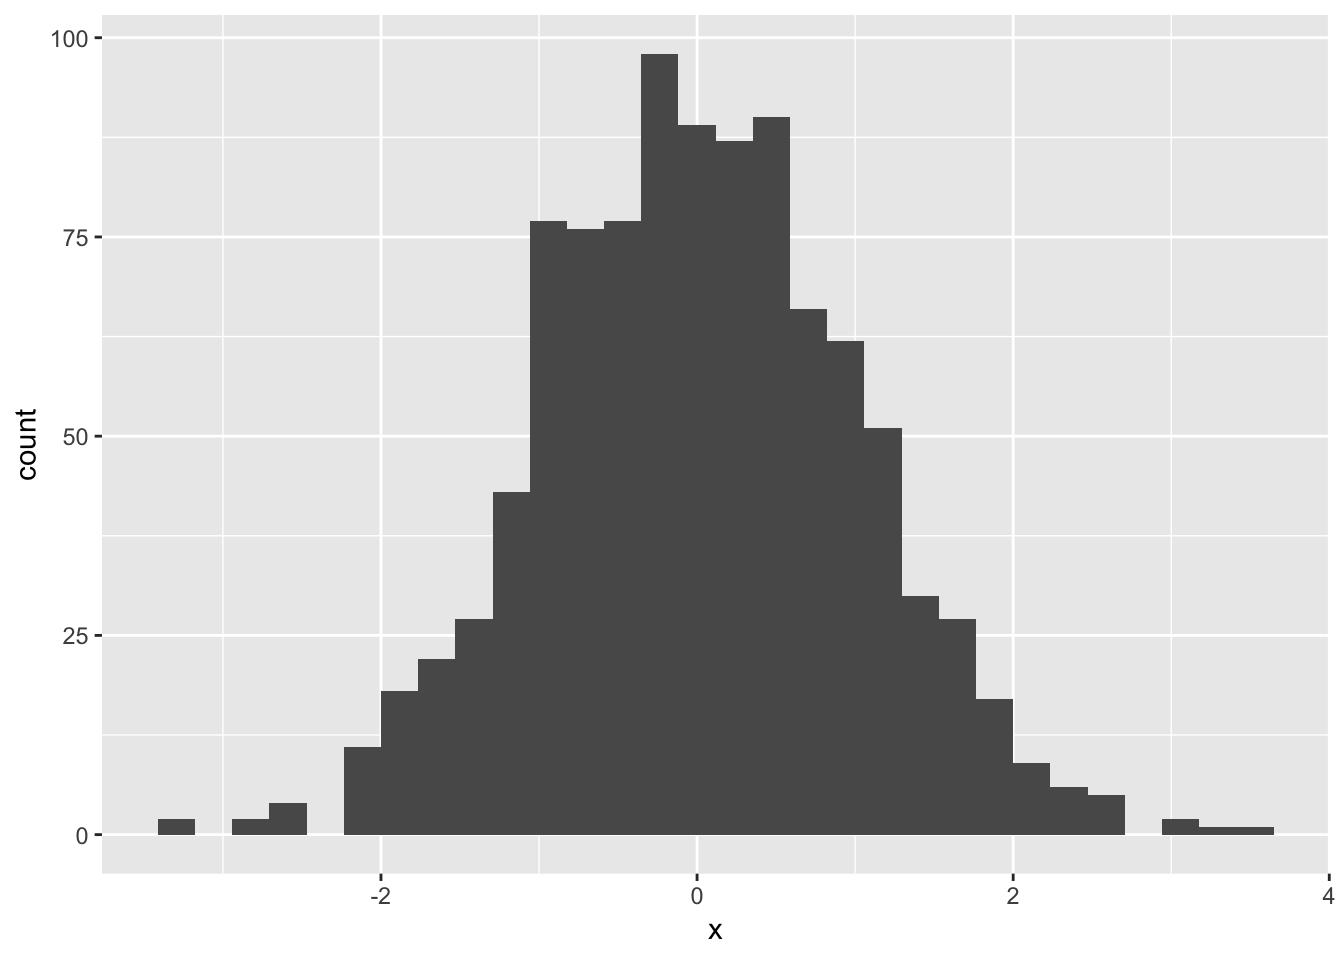
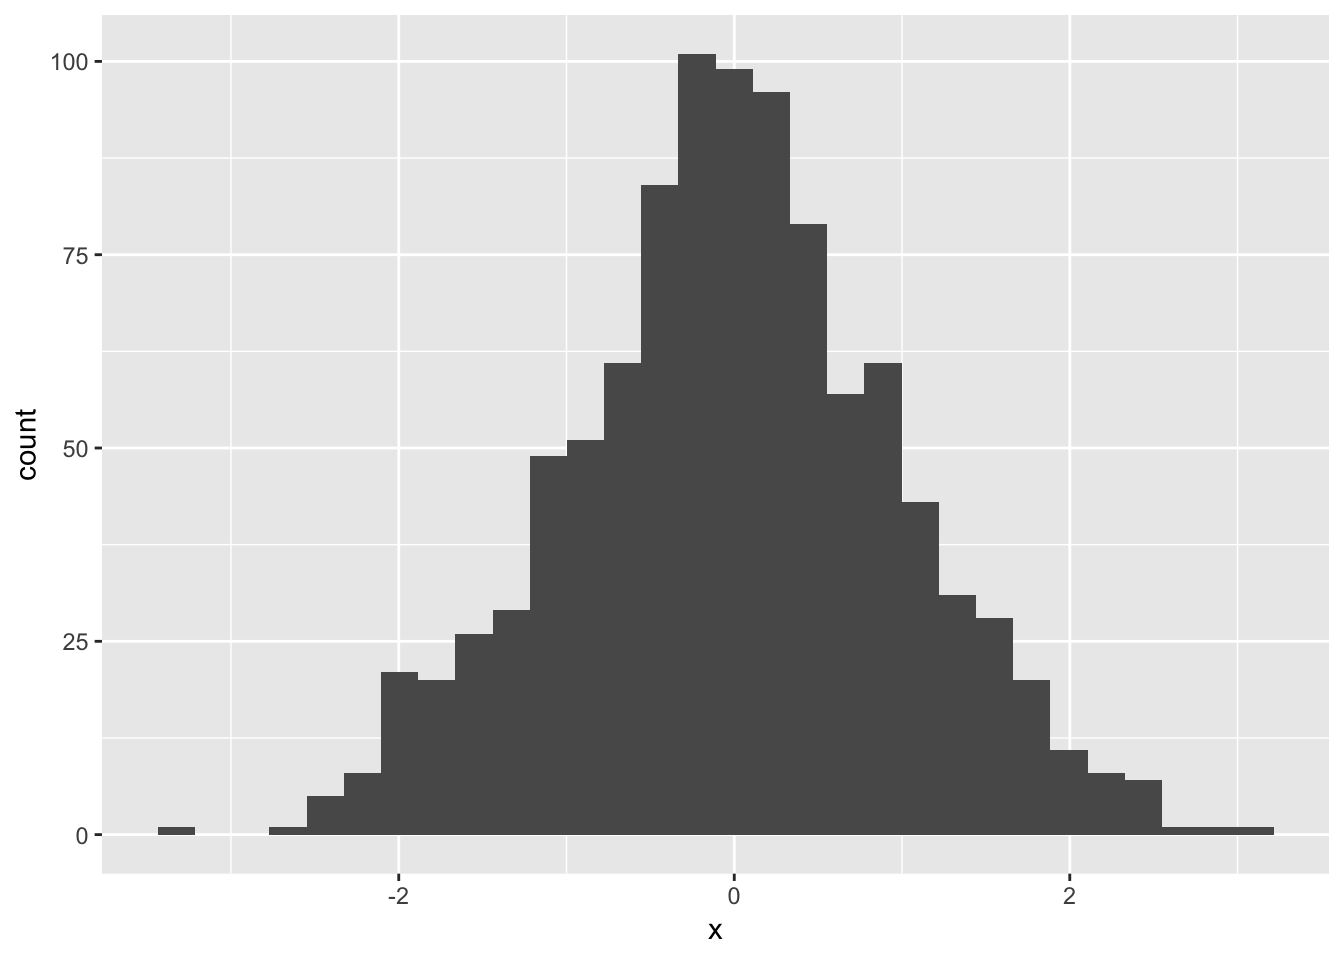
small update

diff --git a/docs/probability.html b/docs/probability.html
@@ -534,7 +534,7 @@ div.tocify {
 <div class="sourceCode" id="cb5"><pre class="sourceCode r"><code class="sourceCode r"><span id="cb5-1"><a href="#cb5-1"></a><span class="kw">qbinom</span>(<span class="dt">p =</span> <span class="fl">0.5</span>, <span class="dt">size =</span> <span class="dv">10</span>, <span class="dt">prob =</span> <span class="fl">0.1</span>) <span class="co"># Quantile function at p=0.5</span></span></code></pre></div>
 <pre><code>## [1] 1</code></pre>
 <div class="sourceCode" id="cb7"><pre class="sourceCode r"><code class="sourceCode r"><span id="cb7-1"><a href="#cb7-1"></a><span class="kw">rbinom</span>(<span class="dt">n =</span> <span class="dv">20</span>, <span class="dt">size =</span> <span class="dv">10</span>, <span class="dt">prob =</span> <span class="fl">0.1</span>)  <span class="co"># Simulate a sample of size 20</span></span></code></pre></div>
-<pre><code>##  [1] 0 1 1 1 0 0 1 1 0 1 0 1 1 0 2 2 0 1 1 1</code></pre>
+<pre><code>##  [1] 3 1 0 2 0 1 2 0 3 0 0 2 3 2 0 1 0 2 1 0</code></pre>
 <p><strong>Poisson distribution</strong>: <span class="math inline">\(\text{Poiss}(\lambda)\)</span> with <span class="math inline">\(\lambda=2\)</span></p>
 <div class="sourceCode" id="cb9"><pre class="sourceCode r"><code class="sourceCode r"><span id="cb9-1"><a href="#cb9-1"></a><span class="kw">dpois</span>(<span class="dt">x =</span> <span class="dv">1</span>, <span class="dt">lambda =</span> <span class="dv">2</span>)     <span class="co"># Probability mass function at x=1</span></span>
 <span id="cb9-2"><a href="#cb9-2"></a><span class="kw">ppois</span>(<span class="dt">q =</span> <span class="dv">1</span>, <span class="dt">lambda =</span> <span class="dv">2</span>)     <span class="co"># Distribution function at q=1</span></span>
@@ -550,31 +550,31 @@ div.tocify {
 <h2>Function <code>sample</code></h2>
 <p>Function <code>sample</code> allows to draw a sample from a finite set of values, with or without replacement:</p>
 <div class="sourceCode" id="cb11"><pre class="sourceCode r"><code class="sourceCode r"><span id="cb11-1"><a href="#cb11-1"></a><span class="kw">sample</span>(<span class="dv">1</span><span class="op">:</span><span class="dv">10</span>, <span class="dt">size =</span> <span class="dv">8</span>, <span class="dt">replace =</span> <span class="ot">TRUE</span>)</span></code></pre></div>
-<pre><code>## [1]  8 10  7  8  1 10  6  2</code></pre>
+<pre><code>## [1] 10  8  4 10  4  7  6  2</code></pre>
 <div class="sourceCode" id="cb13"><pre class="sourceCode r"><code class="sourceCode r"><span id="cb13-1"><a href="#cb13-1"></a><span class="kw">sample</span>(<span class="dv">1</span><span class="op">:</span><span class="dv">10</span>, <span class="dt">size =</span> <span class="dv">8</span>, <span class="dt">replace =</span> <span class="ot">FALSE</span>)</span></code></pre></div>
-<pre><code>## [1]  3  9 10  4  2  5  1  6</code></pre>
+<pre><code>## [1]  3  4 10  6  2  5  7  8</code></pre>
 <p>The first argument can be any vector:</p>
 <div class="sourceCode" id="cb15"><pre class="sourceCode r"><code class="sourceCode r"><span id="cb15-1"><a href="#cb15-1"></a>letters</span></code></pre></div>
 <pre><code>##  [1] &quot;a&quot; &quot;b&quot; &quot;c&quot; &quot;d&quot; &quot;e&quot; &quot;f&quot; &quot;g&quot; &quot;h&quot; &quot;i&quot; &quot;j&quot; &quot;k&quot; &quot;l&quot; &quot;m&quot; &quot;n&quot; &quot;o&quot; &quot;p&quot; &quot;q&quot;
 ## [18] &quot;r&quot; &quot;s&quot; &quot;t&quot; &quot;u&quot; &quot;v&quot; &quot;w&quot; &quot;x&quot; &quot;y&quot; &quot;z&quot;</code></pre>
 <div class="sourceCode" id="cb17"><pre class="sourceCode r"><code class="sourceCode r"><span id="cb17-1"><a href="#cb17-1"></a><span class="kw">sample</span>(letters, <span class="dt">size =</span> <span class="dv">8</span>, <span class="dt">replace =</span> <span class="ot">FALSE</span>)</span></code></pre></div>
-<pre><code>## [1] &quot;y&quot; &quot;z&quot; &quot;o&quot; &quot;i&quot; &quot;b&quot; &quot;p&quot; &quot;r&quot; &quot;a&quot;</code></pre>
+<pre><code>## [1] &quot;w&quot; &quot;z&quot; &quot;a&quot; &quot;l&quot; &quot;r&quot; &quot;x&quot; &quot;c&quot; &quot;p&quot;</code></pre>
 <p>An optional argument <code>prob</code> can be used to specify unequal probabilities to obtain the values in the sample:</p>
 <div class="sourceCode" id="cb19"><pre class="sourceCode r"><code class="sourceCode r"><span id="cb19-1"><a href="#cb19-1"></a><span class="kw">sample</span>(<span class="dv">1</span><span class="op">:</span><span class="dv">4</span>, <span class="dt">size =</span> <span class="dv">10</span>, <span class="dt">replace =</span> <span class="ot">TRUE</span>, <span class="dt">prob =</span> <span class="kw">c</span>(<span class="fl">0.7</span>,<span class="fl">0.1</span>,<span class="fl">0.1</span>,<span class="fl">0.1</span>))</span></code></pre></div>
-<pre><code>##  [1] 3 1 1 1 1 1 1 2 1 4</code></pre>
+<pre><code>##  [1] 1 1 1 1 2 1 1 1 1 1</code></pre>
 <p>Function <code>sample.int</code> is a faster version for sampling from the set <code>1:n</code> (among others, this function is very useful for bootstrapping):</p>
 <div class="sourceCode" id="cb21"><pre class="sourceCode r"><code class="sourceCode r"><span id="cb21-1"><a href="#cb21-1"></a><span class="kw">sample.int</span>(<span class="dv">10</span>, <span class="dt">size =</span> <span class="dv">10</span>, <span class="dt">replace =</span> <span class="ot">TRUE</span>)</span></code></pre></div>
-<pre><code>##  [1]  3  1  5  4  2  7 10  3  7  4</code></pre>
+<pre><code>##  [1] 6 1 7 8 7 1 3 9 2 3</code></pre>
 </div>
 <div id="random-numbers-and-seeds" class="section level2">
 <h2>Random numbers and seeds</h2>
 <p>The sampling functions <code>r***</code> and <code>sample</code> use peudorandom numbers based on the current processor time. This means that running the same code twice will give different results if sampling functions are involved:</p>
 <div class="sourceCode" id="cb23"><pre class="sourceCode r"><code class="sourceCode r"><span id="cb23-1"><a href="#cb23-1"></a><span class="kw">rnorm</span>(<span class="dv">10</span>)</span></code></pre></div>
-<pre><code>##  [1] -0.27021184  2.11412667  1.23797438  1.77336994 -0.07448944
-##  [6] -2.28187525 -0.36305253 -0.85784694 -0.44810639 -0.55866638</code></pre>
+<pre><code>##  [1] -0.3426564 -0.9358879  1.0589589  0.3454295 -1.5224247  0.4685731
+##  [7] -0.4628083 -0.8013377 -1.0294587  0.8847675</code></pre>
 <div class="sourceCode" id="cb25"><pre class="sourceCode r"><code class="sourceCode r"><span id="cb25-1"><a href="#cb25-1"></a><span class="kw">rnorm</span>(<span class="dv">10</span>)</span></code></pre></div>
-<pre><code>##  [1]  1.16862747 -0.83952203 -1.23157357  0.48442135 -0.11670562
-##  [6] -0.04389814 -0.68003021 -0.13852634 -0.62950821 -0.01912529</code></pre>
+<pre><code>##  [1] -0.02526150  0.51435717  0.55791023 -1.19088189  1.46732577
+##  [6]  0.66018697  0.97788728  0.88655585 -0.03058365  1.29400609</code></pre>
 <p>In many cases, this behaviour is desired – after all, these functions are used to describe the outcome of a random process! However, there is a reproducibility problem if running the same script twice (by different people, at different times, …) yields different results. It is therefore strongly recommended to set a <em>seed</em> for the random number generator at the beginning of a script:</p>
 <div class="sourceCode" id="cb27"><pre class="sourceCode r"><code class="sourceCode r"><span id="cb27-1"><a href="#cb27-1"></a><span class="kw">set.seed</span>(<span class="dv">12345</span>) <span class="co"># any number will do</span></span>
 <span id="cb27-2"><a href="#cb27-2"></a><span class="kw">rnorm</span>(<span class="dv">10</span>)</span></code></pre></div>

diff --git a/docs/packages.html b/docs/packages.html
@@ -516,10 +516,9 @@ div.tocify {
 <p>In fact, the base R installation is already organized in packages, namely <code>base</code>, <code>methods</code>, <code>datasets</code>, <code>utils</code>, <code>grDevices</code>, <code>graphics</code>, and <code>stats</code>.</p>
 <p>We can see this by looking at the search path:</p>
 <div class="sourceCode" id="cb1"><pre class="sourceCode r"><code class="sourceCode r"><span id="cb1-1"><a href="#cb1-1"></a><span class="kw">search</span>()</span></code></pre></div>
-<pre><code>##  [1] &quot;.GlobalEnv&quot;        &quot;package:deSolve&quot;   &quot;package:stats&quot;    
-##  [4] &quot;package:graphics&quot;  &quot;package:grDevices&quot; &quot;package:utils&quot;    
-##  [7] &quot;package:datasets&quot;  &quot;package:methods&quot;   &quot;Autoloads&quot;        
-## [10] &quot;package:base&quot;</code></pre>
+<pre><code>## [1] &quot;.GlobalEnv&quot;        &quot;package:stats&quot;     &quot;package:graphics&quot; 
+## [4] &quot;package:grDevices&quot; &quot;package:utils&quot;     &quot;package:datasets&quot; 
+## [7] &quot;package:methods&quot;   &quot;Autoloads&quot;         &quot;package:base&quot;</code></pre>
 <p>In addition to the above mentioned packages, there are a few additional elements on the search path which are not important for us now.</p>
 </div>
 <div id="install-and-load-a-package" class="section level2">
@@ -540,10 +539,10 @@ div.tocify {
 <div class="sourceCode" id="cb6"><pre class="sourceCode r"><code class="sourceCode r"><span id="cb6-1"><a href="#cb6-1"></a><span class="kw">ggplot</span>()</span></code></pre></div>
 <p>We can also see that the <code>ggplot2</code> packages was added to the search path:</p>
 <div class="sourceCode" id="cb7"><pre class="sourceCode r"><code class="sourceCode r"><span id="cb7-1"><a href="#cb7-1"></a><span class="kw">search</span>()</span></code></pre></div>
-<pre><code>##  [1] &quot;.GlobalEnv&quot;        &quot;package:ggplot2&quot;   &quot;package:deSolve&quot;  
-##  [4] &quot;package:stats&quot;     &quot;package:graphics&quot;  &quot;package:grDevices&quot;
-##  [7] &quot;package:utils&quot;     &quot;package:datasets&quot;  &quot;package:methods&quot;  
-## [10] &quot;Autoloads&quot;         &quot;package:base&quot;</code></pre>
+<pre><code>##  [1] &quot;.GlobalEnv&quot;        &quot;package:ggplot2&quot;   &quot;package:stats&quot;    
+##  [4] &quot;package:graphics&quot;  &quot;package:grDevices&quot; &quot;package:utils&quot;    
+##  [7] &quot;package:datasets&quot;  &quot;package:methods&quot;   &quot;Autoloads&quot;        
+## [10] &quot;package:base&quot;</code></pre>
 <p>However, conflicts can occur if two loaded packages define a function with the same name. In this case, a warning is displayed and only the function defined in the package loaded most recently can be called without the scoping operator.</p>
 </div>
 <div id="important-packages" class="section level2">

diff --git a/docs/writefunction.html b/docs/writefunction.html
@@ -545,10 +545,10 @@ div.tocify {
 <span id="cb8-3"><a href="#cb8-3"></a>    <span class="kw">paste</span>(<span class="st">&quot;Current time:&quot;</span>, str)</span>
 <span id="cb8-4"><a href="#cb8-4"></a>}</span>
 <span id="cb8-5"><a href="#cb8-5"></a><span class="kw">report_time</span>()</span></code></pre></div>
-<pre><code>## [1] &quot;Current time: Mon Aug 17 15:43:50 2020&quot;</code></pre>
+<pre><code>## [1] &quot;Current time: Mon Aug 17 17:12:54 2020&quot;</code></pre>
 <div class="sourceCode" id="cb10"><pre class="sourceCode r"><code class="sourceCode r"><span id="cb10-1"><a href="#cb10-1"></a><span class="kw">Sys.sleep</span>(<span class="dv">1</span>)    <span class="co"># wait for 1 sec</span></span>
 <span id="cb10-2"><a href="#cb10-2"></a><span class="kw">report_time</span>()</span></code></pre></div>
-<pre><code>## [1] &quot;Current time: Mon Aug 17 15:43:51 2020&quot;</code></pre>
+<pre><code>## [1] &quot;Current time: Mon Aug 17 17:12:55 2020&quot;</code></pre>
 <ol start="4" style="list-style-type: decimal">
 <li>A function calling another function on a fixed numeric vector</li>
 </ol>
@@ -600,7 +600,7 @@ div.tocify {
 <span id="cb20-10"><a href="#cb20-10"></a>}</span>
 <span id="cb20-11"><a href="#cb20-11"></a>tend   &lt;-<span class="st"> </span><span class="kw">Sys.time</span>()</span>
 <span id="cb20-12"><a href="#cb20-12"></a>tend <span class="op">-</span><span class="st"> </span>tstart         <span class="co"># check the runtime</span></span></code></pre></div>
-<pre><code>## Time difference of 1.032118 secs</code></pre>
+<pre><code>## Time difference of 1.047879 secs</code></pre>
 <p>In these cases, it is preferrable to perform the task once outside the function:</p>
 <div class="sourceCode" id="cb22"><pre class="sourceCode r"><code class="sourceCode r"><span id="cb22-1"><a href="#cb22-1"></a>tstart &lt;-<span class="st"> </span><span class="kw">Sys.time</span>()</span>
 <span id="cb22-2"><a href="#cb22-2"></a>data &lt;-<span class="st"> </span>{<span class="kw">Sys.sleep</span>(<span class="fl">0.1</span>); <span class="dv">4</span>}</span>
@@ -612,7 +612,7 @@ div.tocify {
 <span id="cb22-8"><a href="#cb22-8"></a>}    </span>
 <span id="cb22-9"><a href="#cb22-9"></a>tend   &lt;-<span class="st"> </span><span class="kw">Sys.time</span>()</span>
 <span id="cb22-10"><a href="#cb22-10"></a>tend <span class="op">-</span><span class="st"> </span>tstart        </span></code></pre></div>
-<pre><code>## Time difference of 0.1083422 secs</code></pre>
+<pre><code>## Time difference of 0.1085339 secs</code></pre>
 </div>
 
 

diff --git a/docs/index.html b/docs/index.html
@@ -336,15 +336,11 @@ $(document).ready(function () {
 </div>
 
 
-<p>This website is part of the online training material for the PharMetrX A5 module 2020.</p>
-<ul>
-<li>link to PharMetrX website?</li>
-<li>licence info?</li>
-</ul>
+<p>This website is part of the online training material for the PharMetrX A5 module 2020, part of the PharMetrX graduate research training program (see <a href="https://www.pharmetrx.de/">here</a> for general information about PharMetrX and <a href="https://www.pharmetrx.de/training/curriculum/statistics-data-analysis.html">here</a> for an overview of the content covered in the module). The material has been created by Niklas Hartung, University of Potsdam (2020), and is distributed under the terms of the Creative Commons License (CC BY-NC-SA 3.0): Attribution-NonCommercial-ShareAlike 3.0 Unported.</p>
 <p>This self-study hands-on material, to be prepared <em>before</em> the one-week module (31 August – 4 September 2020), consists of two parts:</p>
 <ul>
-<li><strong>Tutorials</strong> covering the R programming skills required during the hands-on sessions. Depending on your current experience with R, you might be able to skip parts of this material. Below, an overview on the tutorial content is given.</li>
-<li><strong>Tasks</strong> (hands-on) based on Wilhelm’s screencasts. This material is mandatory. <em>Zoom meeting about the tasks before the module?</em></li>
+<li><strong>Tutorials</strong> covering the R programming skills required during the hands-on sessions. Depending on your current experience with R, you might be able to skip parts of this material. Below, an overview on the tutorial content is given. The tutorials themselves can be accessed by clicking on “R Tutorials” in the header.</li>
+<li><strong>Tasks</strong> (hands-on) based on Wilhelm’s screencasts. Please complete this material before the start of the one-week module. Again, the tutorials can be accessed through the navigation bar at the top. You can check your results against the provided reference solutions.</li>
 </ul>
 <p>The following topics are covered in the R tutorials:</p>
 <table>

diff --git a/docs/controlflow.html b/docs/controlflow.html
@@ -530,7 +530,7 @@ div.tocify {
 <p>Let’s give an example:</p>
 <div class="sourceCode" id="cb3"><pre class="sourceCode r"><code class="sourceCode r"><span id="cb3-1"><a href="#cb3-1"></a>x &lt;-<span class="st"> </span><span class="kw">rnorm</span>(<span class="dv">1</span>)         <span class="co"># normally distributed pseudorandom number</span></span>
 <span id="cb3-2"><a href="#cb3-2"></a>x</span></code></pre></div>
-<pre><code>## [1] 1.049556</code></pre>
+<pre><code>## [1] 0.9503557</code></pre>
 <div class="sourceCode" id="cb5"><pre class="sourceCode r"><code class="sourceCode r"><span id="cb5-1"><a href="#cb5-1"></a><span class="cf">if</span> (x <span class="op">&gt;</span><span class="st"> </span><span class="dv">0</span>) {</span>
 <span id="cb5-2"><a href="#cb5-2"></a>    <span class="kw">print</span>(<span class="st">&quot;x is positive&quot;</span>)</span>
 <span id="cb5-3"><a href="#cb5-3"></a>} <span class="cf">else</span> {    </span>
@@ -554,7 +554,7 @@ div.tocify {
 <span id="cb9-5"><a href="#cb9-5"></a>} <span class="cf">else</span> {</span>
 <span id="cb9-6"><a href="#cb9-6"></a>    <span class="kw">print</span>(<span class="st">&quot;x is less than -1&quot;</span>)</span>
 <span id="cb9-7"><a href="#cb9-7"></a>}</span></code></pre></div>
-<pre><code>## [1] &quot;x is greater than 1&quot;</code></pre>
+<pre><code>## [1] &quot;x is in [-1,1]&quot;</code></pre>
 <p>A <code>switch</code> provides another way of control flow between any number of cases (not covered in this tutorial).</p>
 </div>
 <div id="loops" class="section level2">
@@ -616,7 +616,7 @@ div.tocify {
 <span id="cb18-8"><a href="#cb18-8"></a>    }</span>
 <span id="cb18-9"><a href="#cb18-9"></a>}</span>
 <span id="cb18-10"><a href="#cb18-10"></a>nfail</span></code></pre></div>
-<pre><code>## [1] 0</code></pre>
+<pre><code>## [1] 26</code></pre>
 </div>
 </div>
 

diff --git a/docs/odes.html b/docs/odes.html
@@ -540,11 +540,11 @@ div.tocify {
 <li><code>y</code>, the state vector (a numeric vector)</li>
 <li><code>p</code>, the parameter vector</li>
 </ul>
-<p>The ODE right-hand side must return a length one list containing the vector of derivatives <code>dy</code>, <strong>not</strong> the derivatives themselves!</p>
+<p>The ODE right-hand side must return a (length one) <em>list containing the</em> vector of derivatives <code>dy</code>, <strong>not</strong> the vector of derivatives itself!</p>
 </div>
 <div id="ouput-of-ode" class="section level3">
 <h3>Ouput of <code>ode</code></h3>
-<p>Function <code>ode</code> returns a matrix, above denoted <code>out</code>, containing</p>
+<p>Function <code>ode</code> returns a matrix, below denoted <code>out</code>, containing</p>
 <ul>
 <li>the output times as first column,</li>
 <li>the different states of the ODE system as subsequent columns</li>

diff --git a/docs/datatypes.html b/docs/datatypes.html
@@ -736,7 +736,7 @@ div.tocify {
 <div class="sourceCode" id="cb71"><pre class="sourceCode r"><code class="sourceCode r"><span id="cb71-1"><a href="#cb71-1"></a>force</span></code></pre></div>
 <pre><code>## function (x) 
 ## x
-## &lt;bytecode: 0x7f802213fbf8&gt;
+## &lt;bytecode: 0x7f8ed4828df8&gt;
 ## &lt;environment: namespace:base&gt;</code></pre>
 <p>Here, <code>x</code> is the single formal argument, <code>x</code> is also the function body, and the function environment is the (namespace of the) “base” package.</p>
 </div>
